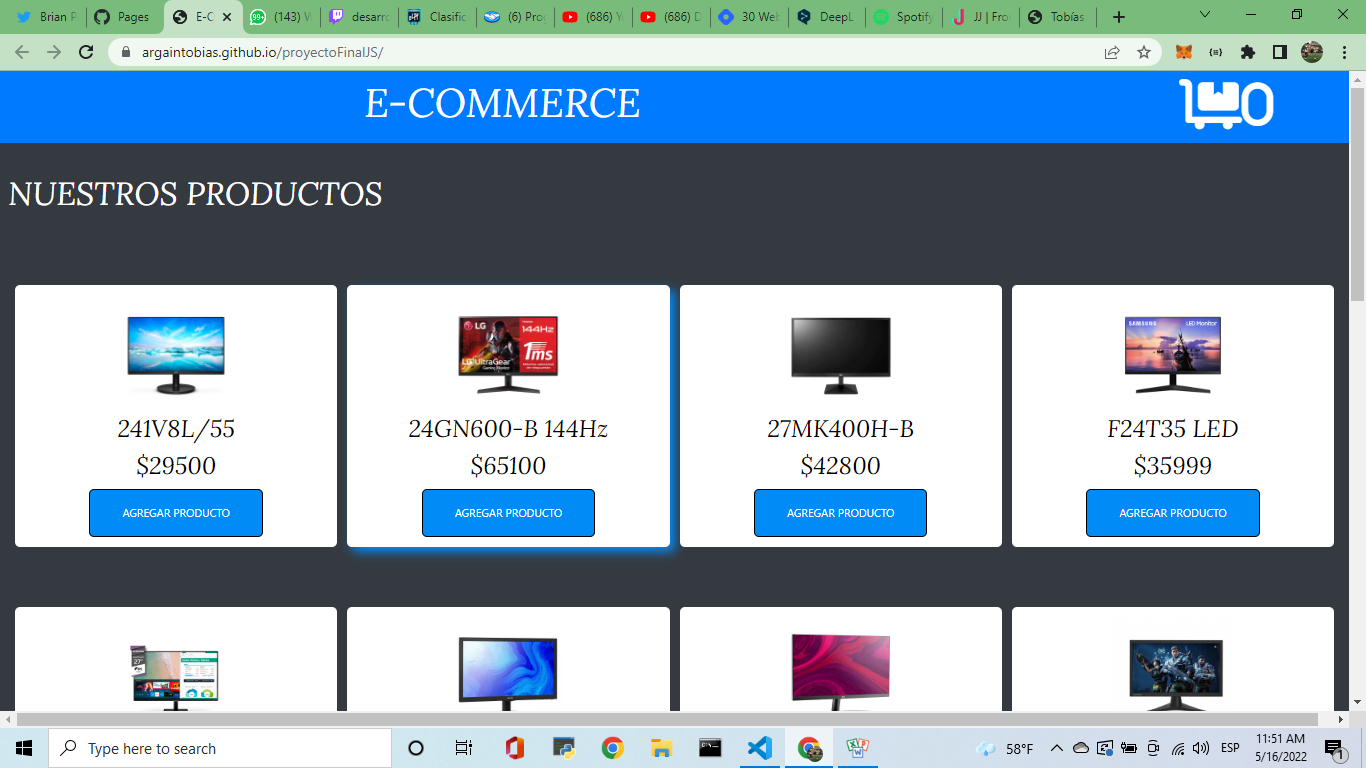
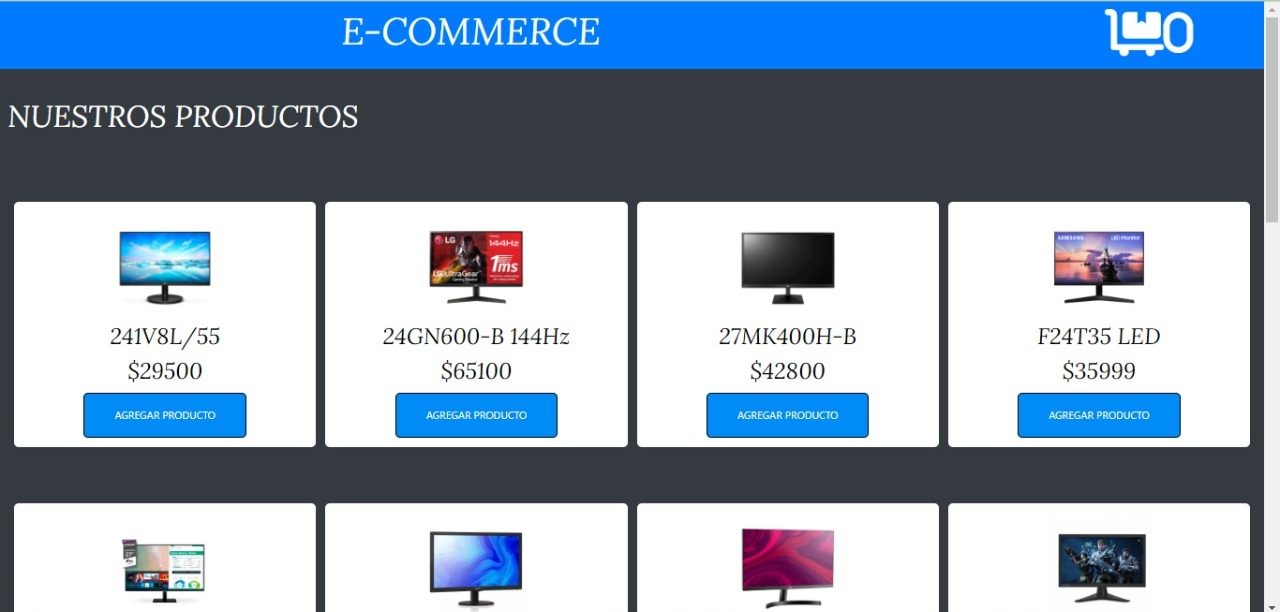
saco landing y cambio fotos

diff --git a/css/base/_index.scss b/css/base/_index.scss
@@ -143,7 +143,6 @@ main{
             text-align: center;
         }
         p{
-            color: white;
             margin-bottom: 2rem;
             padding-left: 0.5rem;
         }
@@ -176,7 +175,6 @@ main{
                 text-align: center;
             }
             p{
-                color: white;
                 margin-bottom: 2rem;
                 padding-left: 0.5rem;
             }
@@ -197,8 +195,9 @@ main{
             border: solid 2px #909096;
             border-radius: 10px;
             img{
-                height: 200px;
+                height: 180px;
                 object-fit: cover;
+                padding: .8rem;
                 border-radius: 10px;
             }
             h4{

diff --git a/css/styles.css b/css/styles.css
@@ -17,6 +17,10 @@ h2 {
   font-size: 4rem;
 }
 
+p {
+  color: #909096;
+}
+
 header {
   max-width: 20vh;
   position: fixed;
@@ -193,7 +197,6 @@ main {
 }
 
 .about-me .about-me-container p {
-  color: white;
   margin-bottom: 2rem;
   padding-left: 0.5rem;
 }
@@ -228,7 +231,6 @@ main {
 }
 
 .my-portfolio .portfolio-container .portfolio-container-text p {
-  color: white;
   margin-bottom: 2rem;
   padding-left: 0.5rem;
 }
@@ -252,9 +254,10 @@ main {
 }
 
 .my-portfolio .our-projects div img {
-  height: 200px;
+  height: 180px;
   -o-object-fit: cover;
      object-fit: cover;
+  padding: .8rem;
   border-radius: 10px;
 }
 

diff --git a/js/data.js b/js/data.js
@@ -5,11 +5,11 @@ const proyects = [
         url:"https://argaintobias.github.io/proyectoFinalDW/",
         image:"images/scalaOptical.png"
     },
-    {
-        name:"Landing Page",
-        url:"https://argaintobias.github.io/landingPage/",
-        image:"images/landingPage.png"
-    },
+    // {
+    //     name:"Landing Page",
+    //     url:"https://argaintobias.github.io/landingPage/",
+    //     image:"images/landingPage.png"
+    // },
     {
         name:"E-Commerce",
         url:"https://argaintobias.github.io/proyectoFinalJS/",

diff --git a/css/styles.scss b/css/styles.scss
@@ -16,4 +16,8 @@ h2{
     font-size: 4rem;
 }
 
+p{
+    color: #909096
+}
+
 @import"base/index";
